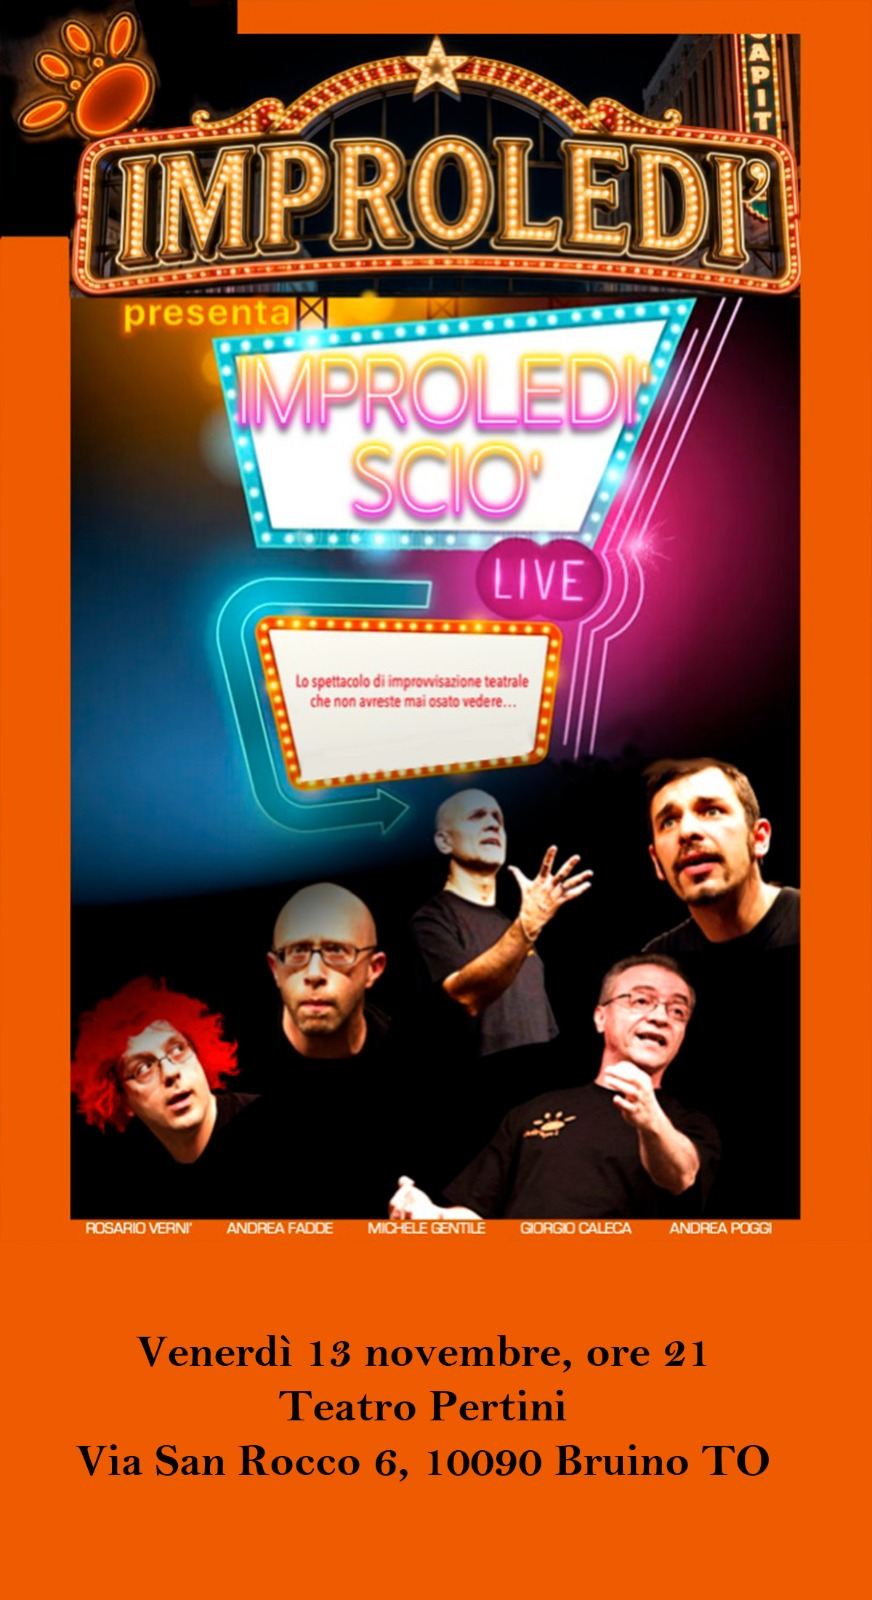
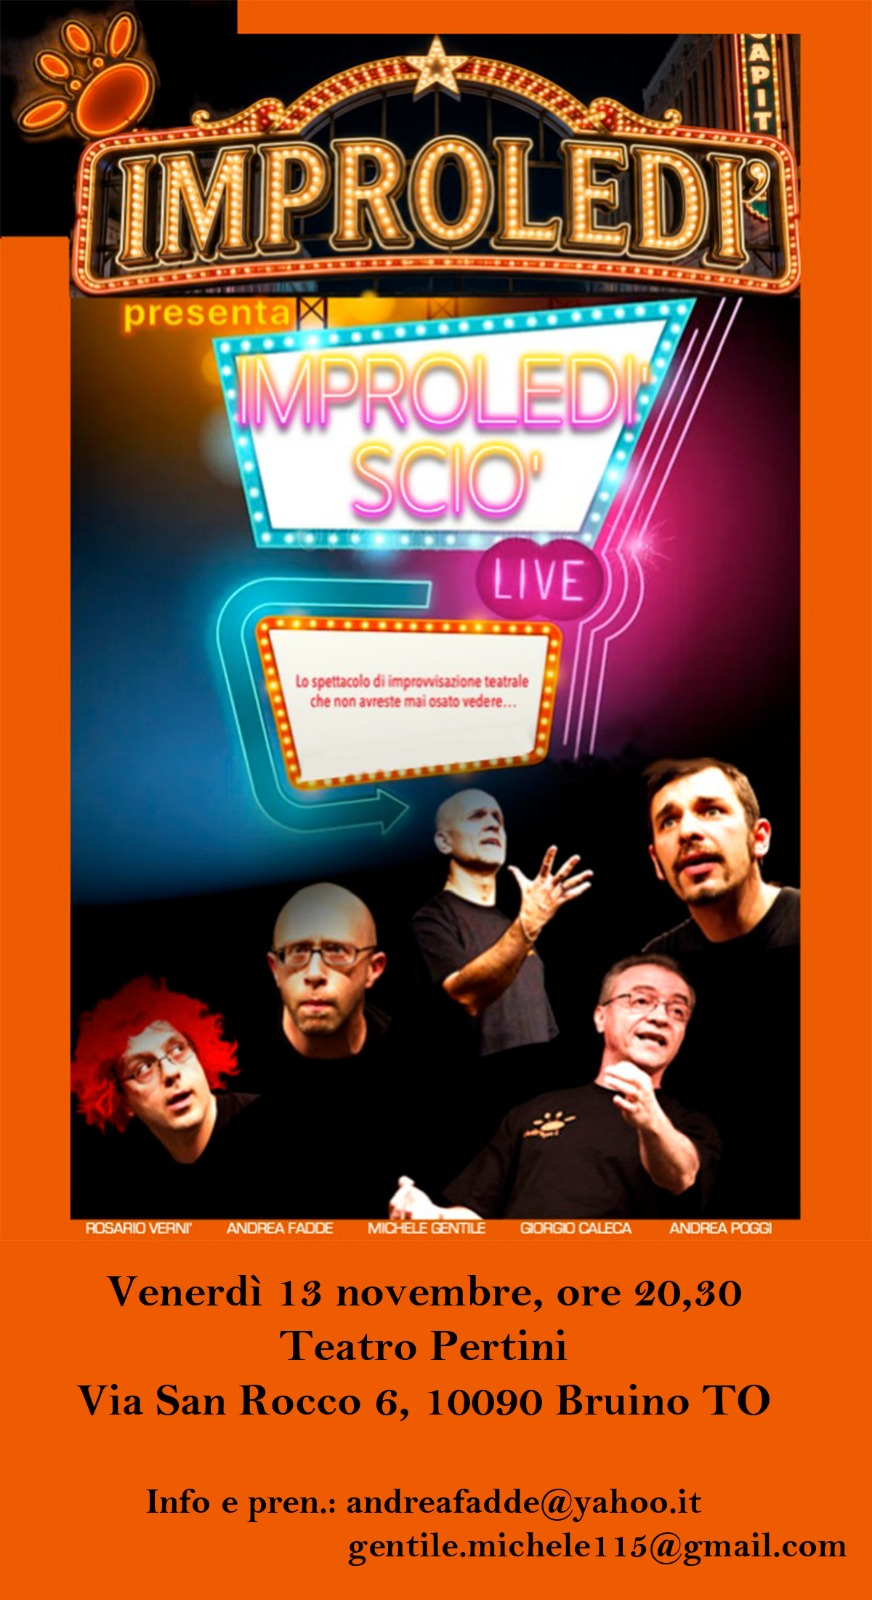
Correzione orario evento del 13/11
Correzione orario evento del 13/11

Changed region(s): [[0.0929, 0.7812, 0.9599, 1.0]]

diff --git a/index.htm b/index.htm
@@ -525,7 +525,7 @@
                         <br />
                         <br />
                         <br />                        
-                        Ore 21.00
+                        Ore 20.30
                         <br />
                         via San Rocco 6
                         <br />
